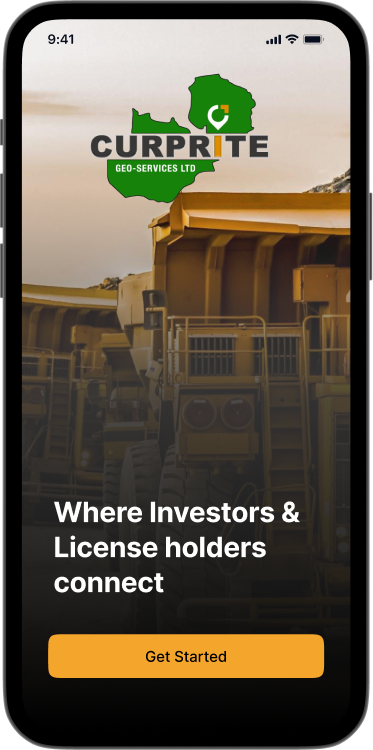
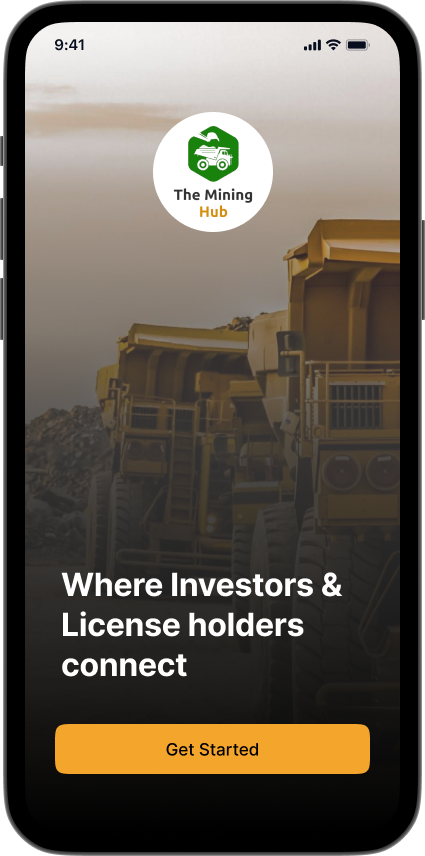
sss

diff --git a/index.html b/index.html
@@ -98,12 +98,22 @@
                 <div class="col-lg-6">
                     <div class="hero-content">
                         <h1 class="title" style="margin-top: 15px;">Unearthing <span>Excellence:</span> Your Trusted Partner in Geological & Environmental Solutions</h1>
+                        <h3 class="for-bigscreen" style="font-size: 1.3em;margin-top: 25px;margin-bottom: 25px; color:white;">Download The Mining Hub App today!</h3>
+                        <h3 class="for-smallscreen" style="font-size: 1.3em;margin-top: 25px;margin-bottom: 25px;text-align: center; color:white;">Download The Mining Hub App today!</h3>
                         <ul class="nav">
-                            <li><a class="main-btn" href="#" data-toggle="modal" data-target="#exampleModal">Get Early Access <i class="fas fa-angle-right"></i></a></li>
+                            <li>
+                                <a href="https://play.google.com/store/apps/details?id=com.csc.mininghub&hl=en&gl=US" >
+                                    <img src="assets/images/google.png" alt="" height="90rem" style="padding-bottom: 30px;">
+                                </a>
+                            </li    >
                             <li><a class="main-btn main-btn-2 page-scroll" href="#intro">Learn more <i
-                                        class="fas fa-angle-right"></i></a></li>
-                        </ul>
-                    </div>
+                                class="fas fa-angle-right"></i></a></li>
+                            </ul>
+                        </div>
+                        <div class="justify-content-center">
+
+                        </div>
+
                 </div>
                 <div class="col-lg-6">
                     <div class="hero-thumb">
@@ -411,9 +421,11 @@
                         <div class="intro-btns">    
                             <ul class="nav">
                                 <div class="d-flex flex-column justify-content-start align-items-start" >
-                                    <li style="font-weight: 700; font-size: larger; padding-left: 15px; margin-bottom: 20px;">Available 2024!</li>
-                                    <!-- for large screen -->
-                                    <li><a class="main-btn for-bigscreen" href="#" data-toggle="modal" data-target="#exampleModal">Get Early Access<i class="fas fa-angle-right"></i></a></li>
+                                    <li style="font-weight: 700; font-size: larger; padding-left: 15px; margin-bottom: 20px;">Out now!</li>
+                                    <li>
+                                        <a href="https://play.google.com/store/apps/details?id=com.csc.mininghub&hl=en&gl=US" >
+                                            <img class="for-bigscreen" src="assets/images/google.png" alt="" height="90rem" style="padding-bottom: 30px;">
+                                        </a></li>
                                 </div>
                                 
                             </ul>
@@ -423,7 +435,7 @@
                         
                     </div>
                 </div>
-                <a class="main-btn for-smallscreen" style="margin: auto;" href="#" data-toggle="modal" data-target="#exampleModal">Get Early Access<i class="fas fa-angle-right"></i></a>
+                <a class="main-btn for-smallscreen" style="margin: auto;" href="#" data-toggle="modal" data-target="#exampleModal">Contact Us<i class="fas fa-angle-right"></i></a>
             </div>
         </div>
     </section>
@@ -507,7 +519,7 @@
                             <li>
                                 
                                 <a class="main-btn main-btn-3" href="#" data-toggle="modal" data-target="#exampleModal">
-                                    Get Early Access
+                                    Contact Us
                                      <i class="fas fa-angle-right"></i>
                                     </a>
                                 </li>
